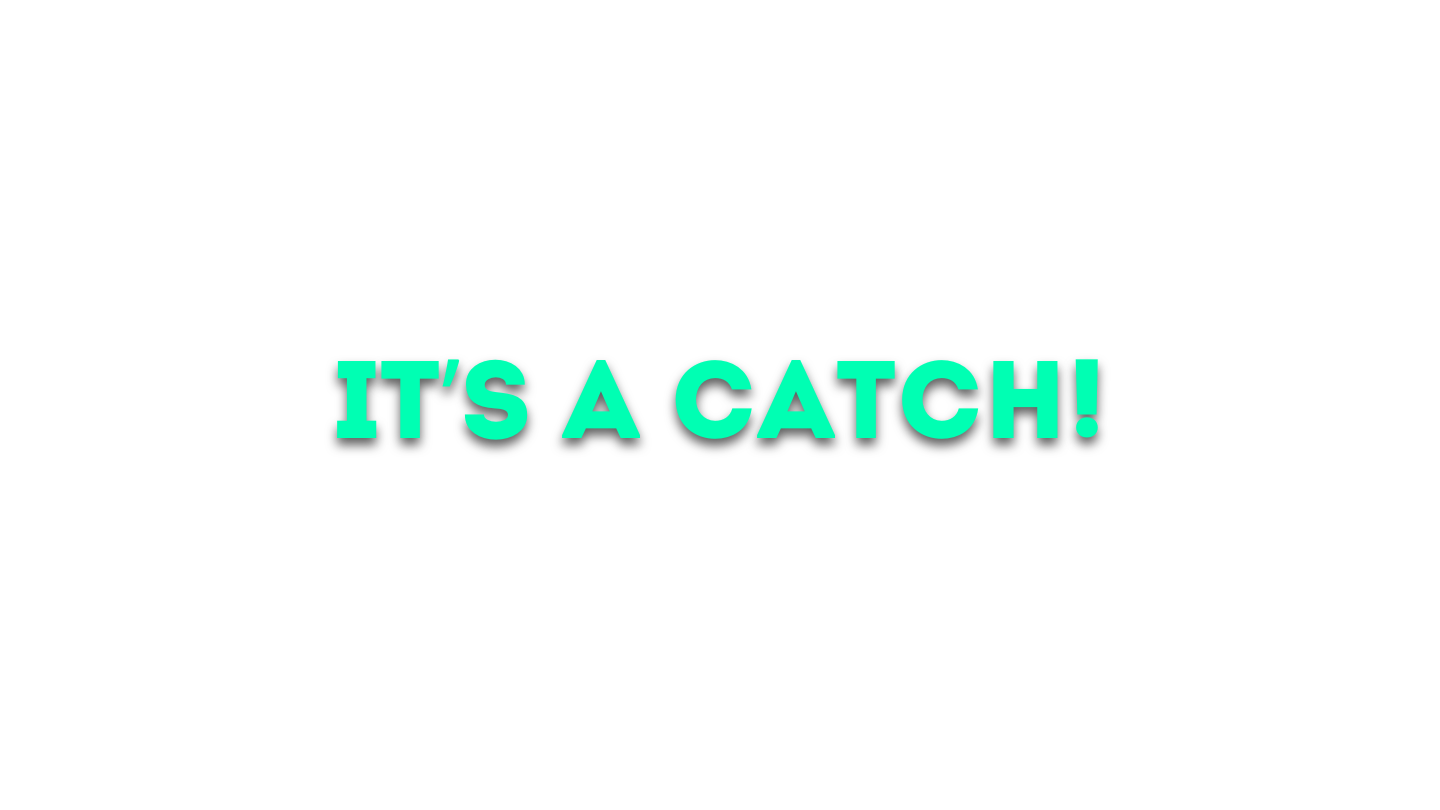
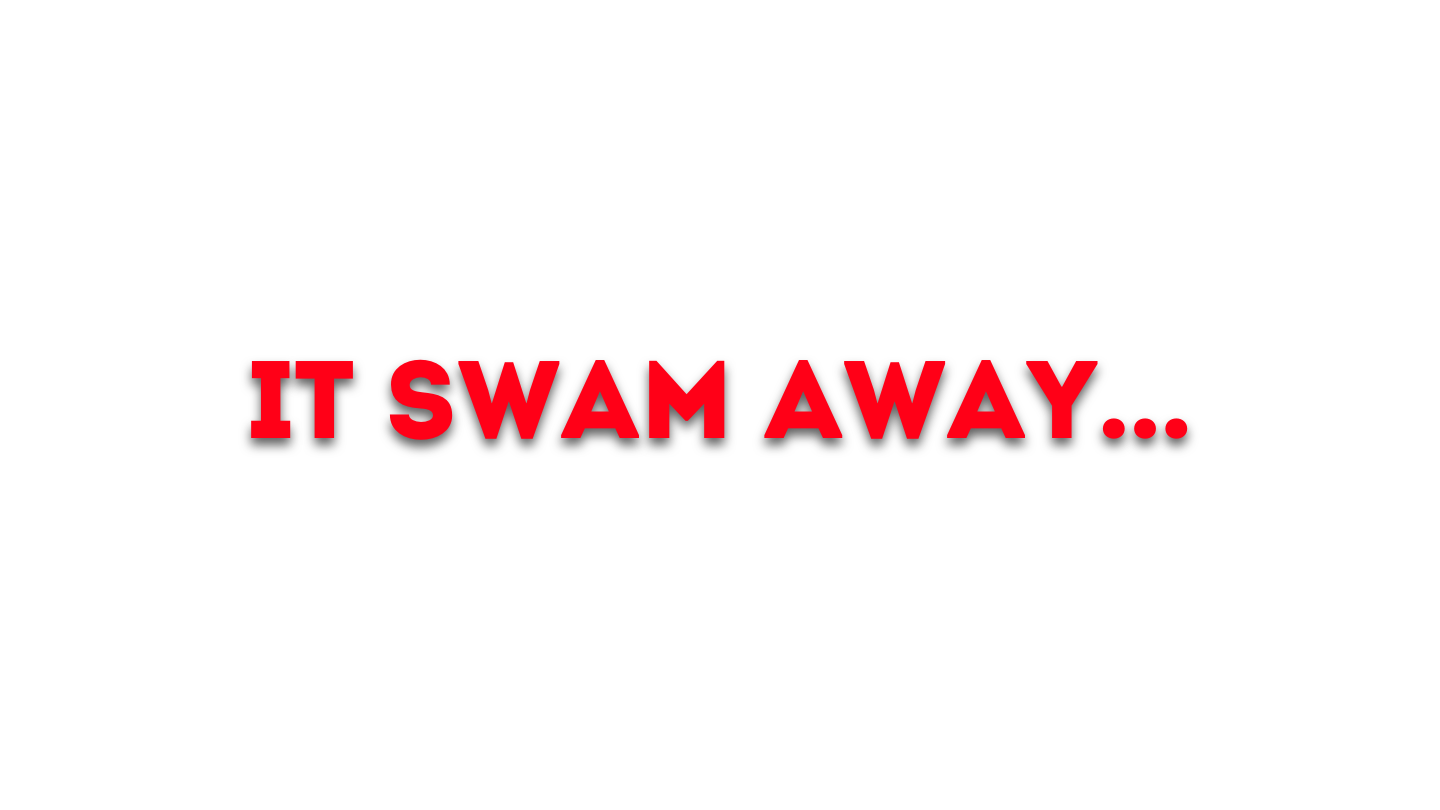
little rectangles

Changed region(s): [[0.1562, 0.4321, 0.8438, 0.5556]]

diff --git a/python.py b/python.py
@@ -90,15 +90,19 @@ def draw_window():
         progress_height = catch_time * container_height / catch_threshold
         pygame.draw.rect(win, (255, 255, 255), (container_x + content_x, container_y + container_height - progress_height + content_y, container_width, progress_height))
 
-        # Draw the timer centered
+        # Draw the timer rectangle and text
         font = pygame.font.Font(None, 36)
         timer_text = font.render(f"Time: {int(timer)}", True, (255, 255, 255))
-        win.blit(timer_text, (content_x + WIDTH - timer_text.get_width() - 20, content_y + 20))
+        timer_rect = pygame.Rect(content_x + WIDTH - timer_text.get_width() - 30, content_y + 10, timer_text.get_width() + 20, timer_text.get_height() + 10)
+        pygame.draw.rect(win, (22, 76, 114), timer_rect)  # Rectangle color #164C72
+        win.blit(timer_text, (timer_rect.x + 10, timer_rect.y + 5))
 
-    # Draw retry button centered
+    # Draw retry button rectangle and text
     font = pygame.font.Font(None, 36)
     retry_text = font.render("Retry", True, (255, 255, 255))  # White text
-    win.blit(retry_text, (retry_button.x + content_x + 5, retry_button.y + content_y + 5))
+    retry_rect = pygame.Rect(retry_button.x + content_x, retry_button.y + content_y, retry_text.get_width() + 20, retry_text.get_height() + 10)
+    pygame.draw.rect(win, (22, 76, 114), retry_rect)  # Rectangle color #164C72
+    win.blit(retry_text, (retry_rect.x + 10, retry_rect.y + 5))
 
     pygame.display.update()
 
@@ -113,13 +117,14 @@ def move_fish():
     fish.y = max(container_y, min(fish.y, container_y + container_height - fish.height))
 
 def reset_game():
-    global catch_time, game_over, timer, last_time
+    global catch_time, game_over, timer, last_time, game_over_text
     bobber.y = (container_y + container_height // 2) - 80
     fish.y = random.randint(container_y, container_y + container_height - 70)
     catch_time = 0
     game_over = False
     timer = timer_start
     last_time = time.time()
+    game_over_text = ""
 
 run = True
 while run:
@@ -164,7 +169,7 @@ while run:
         # Check collision and update progress bar
         if bobber.colliderect(fish):
             catch_time += clock.get_time()
-            if catch_time >= catch_threshold and bobber.colliderect(fish):
+            if catch_time >= catch_threshold and not game_over:
                 game_over = True
                 game_over_text = "IT'S A CATCH!"
         else:
@@ -173,5 +178,10 @@ while run:
 
     # Draw everything
     draw_window()
+
+    # Additional check to ensure game state consistency
+    if game_over and game_over_text != "IT'S A CATCH!":
+        if catch_time < catch_threshold:
+            game_over_text = "IT SWAM AWAY..."
 
 pygame.quit()
